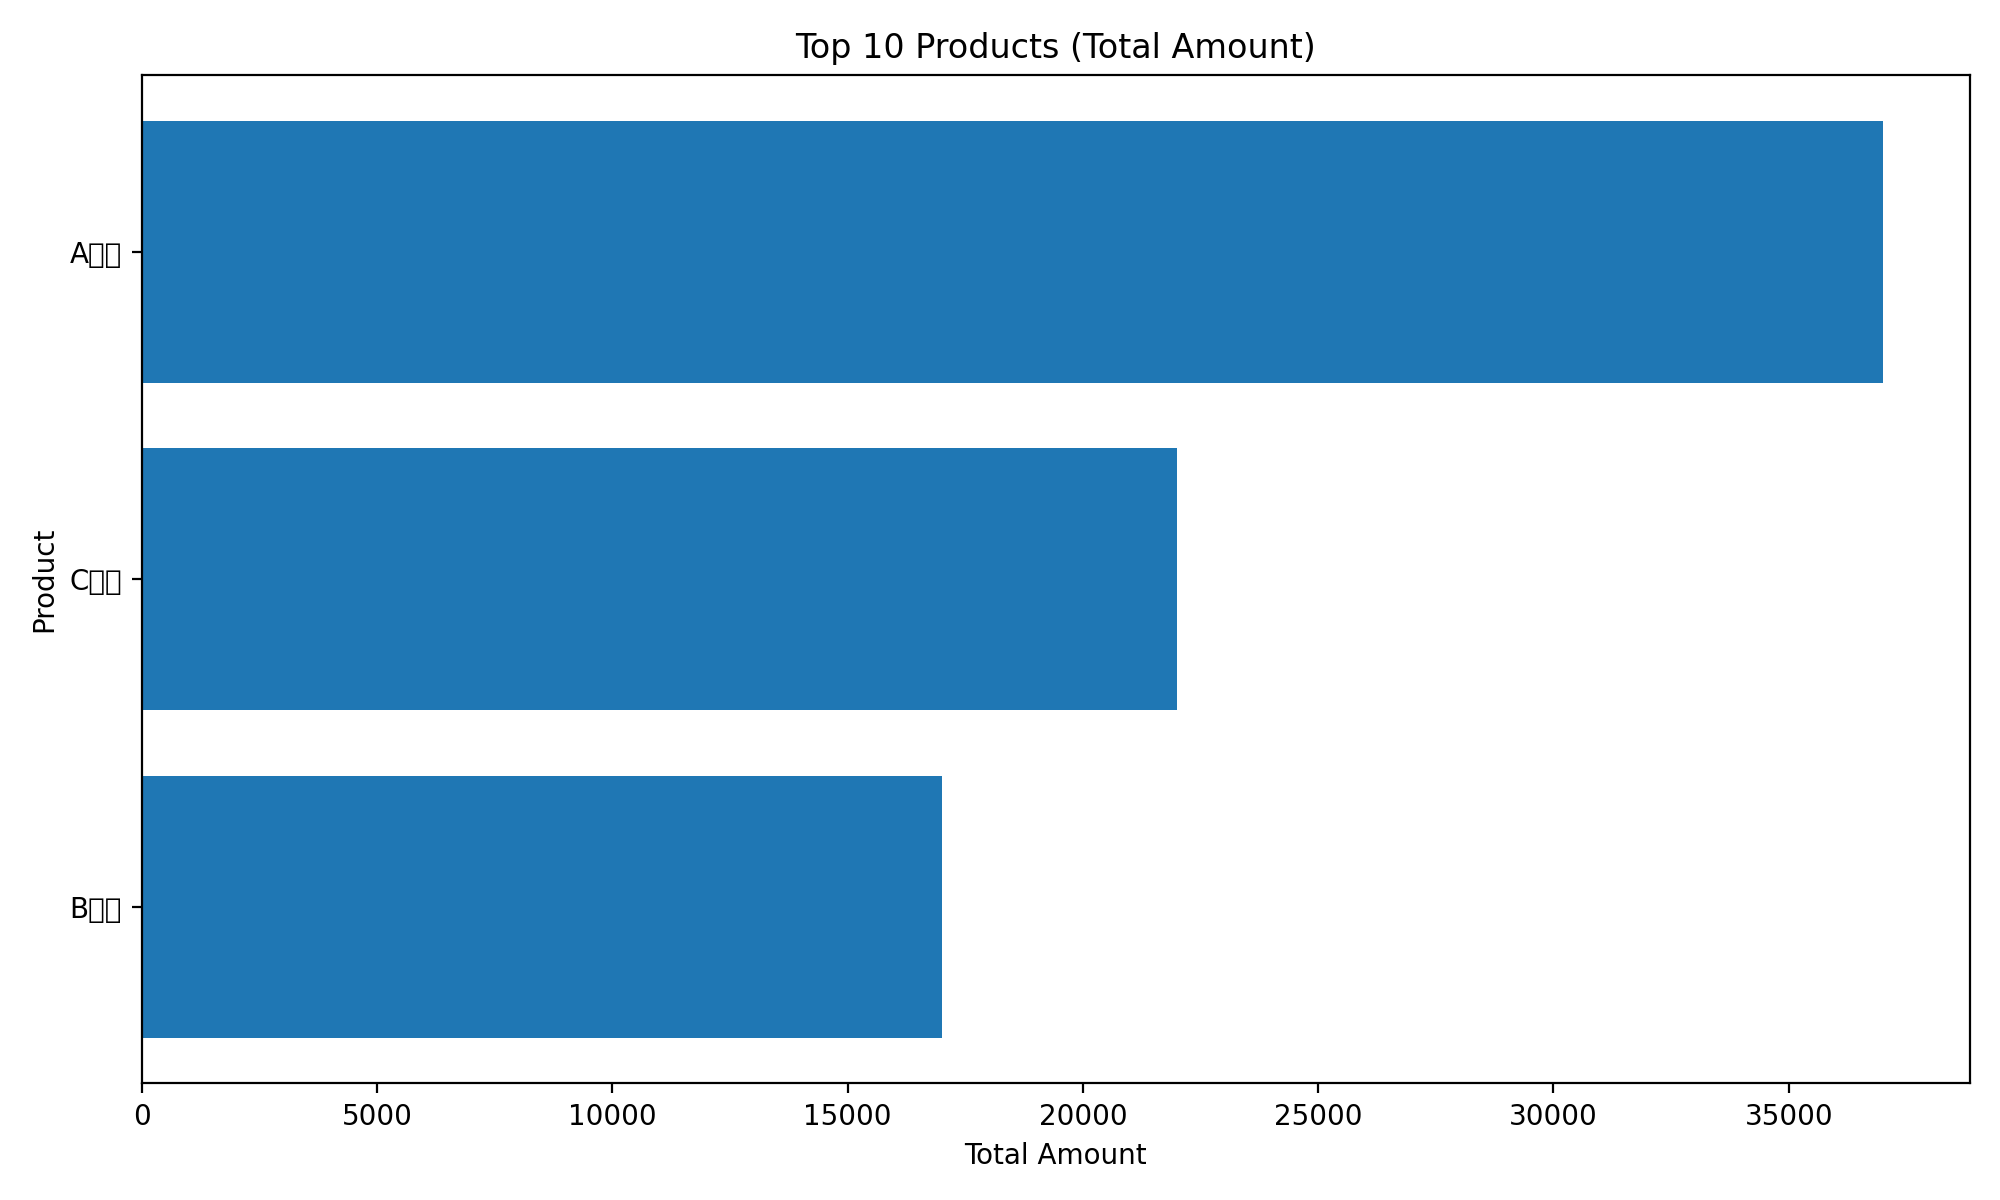
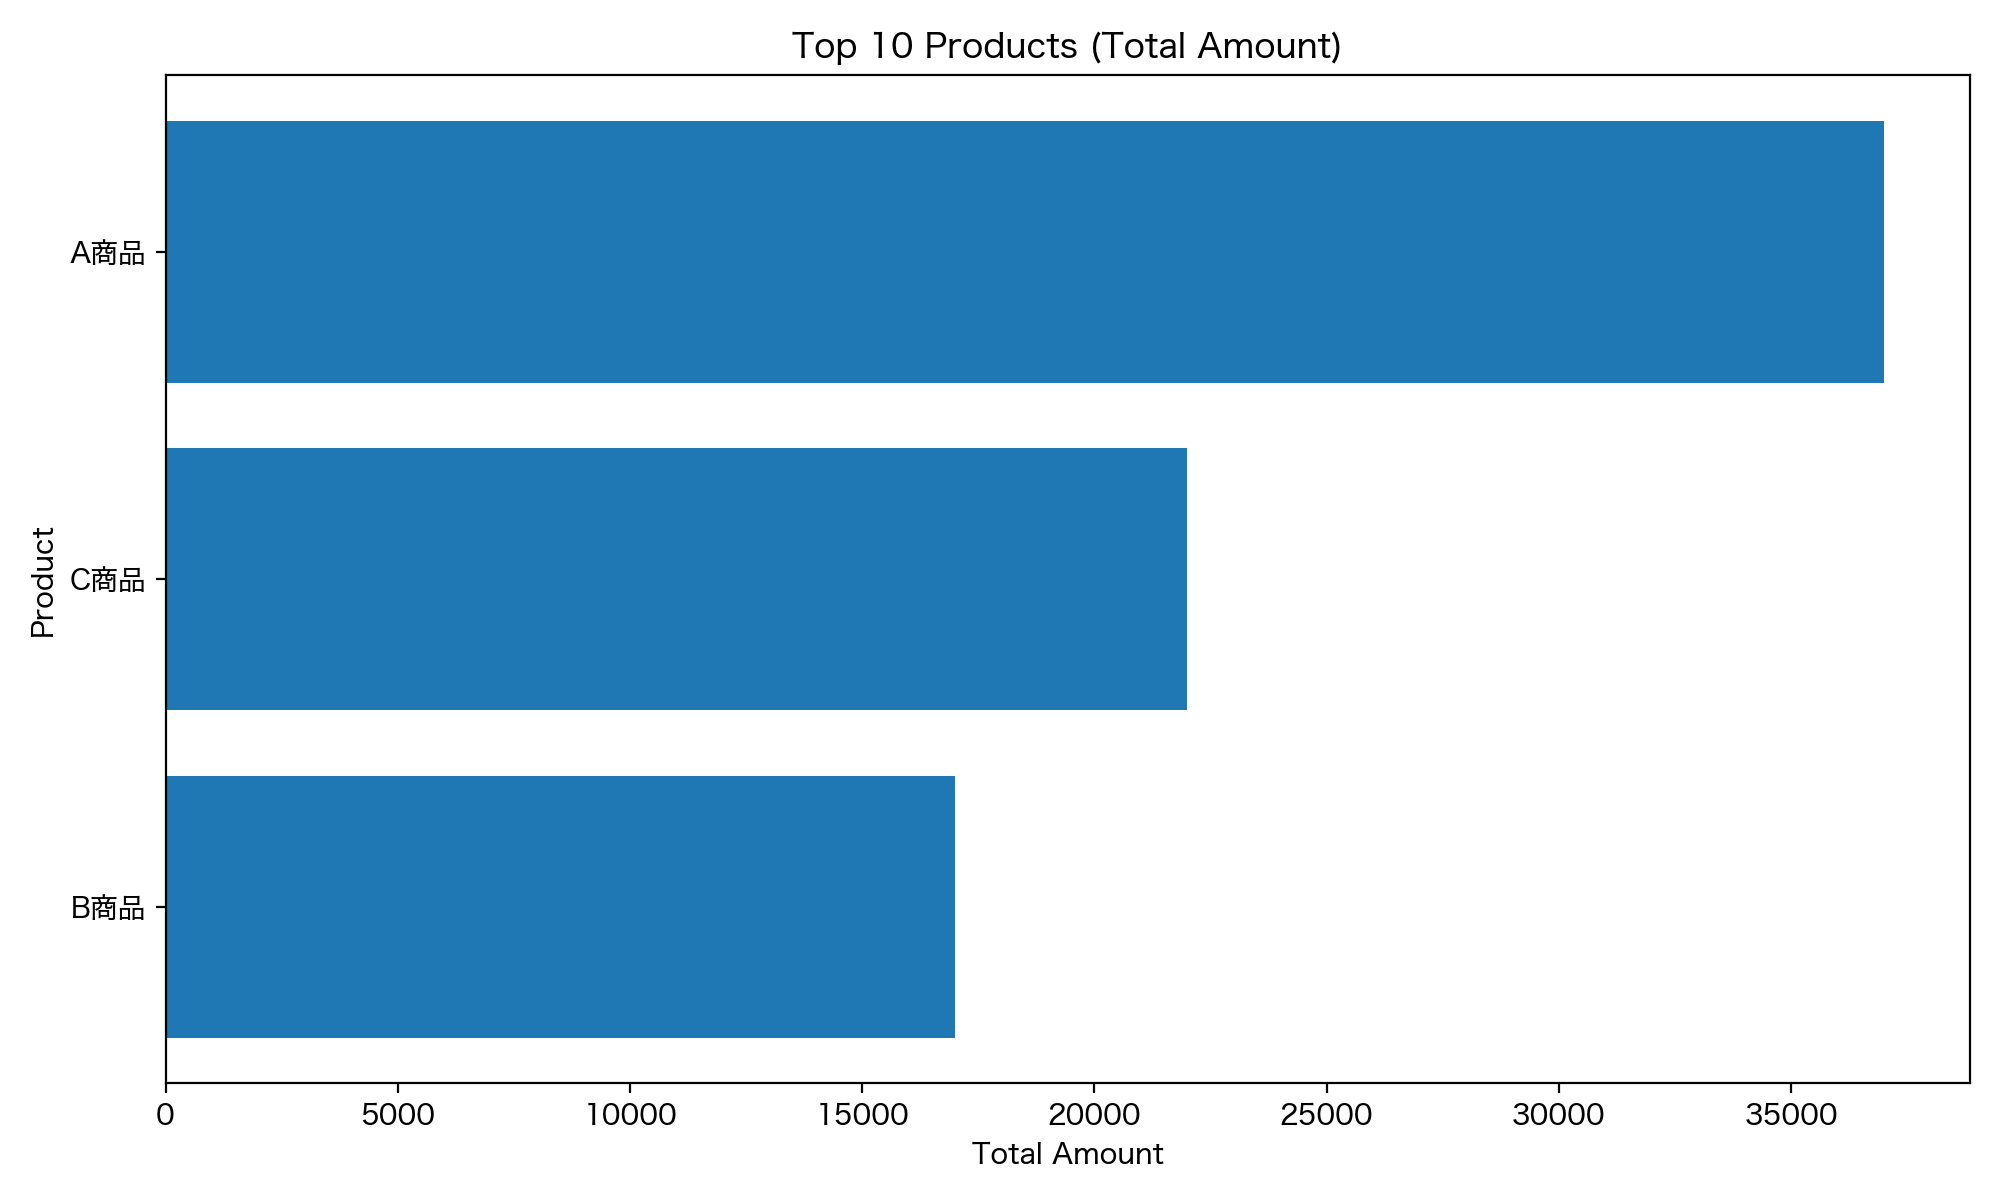
First commit

diff --git a/main.py b/main.py
@@ -8,6 +8,18 @@ from dataclasses import dataclass
 import pandas as pd
 import matplotlib.pyplot as plt
 
+import matplotlib as mpl
+
+# 日本語フォント（MacならだいたいこれでOK）
+for f in ["Hiragino Sans", "Hiragino Kaku Gothic ProN", "AppleGothic"]:
+    try:
+        mpl.rcParams["font.family"] = f
+        break
+    except Exception:
+        pass
+
+mpl.rcParams["axes.unicode_minus"] = False
+
 
 REQUIRED_COLS = {"date", "product", "amount"}
 
